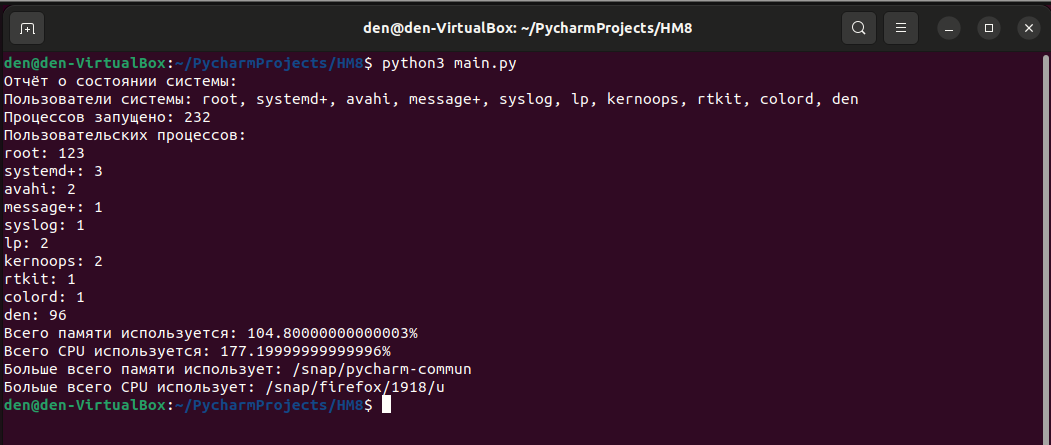
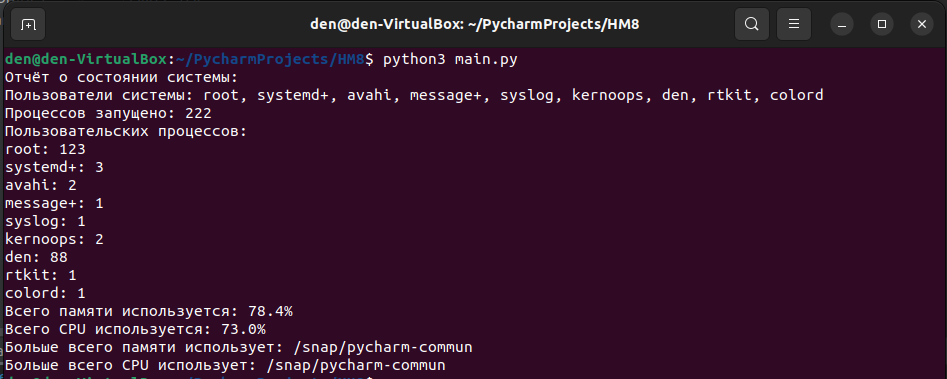
fix hm8

diff --git a/main.py b/main.py
@@ -25,6 +25,8 @@ def process_information():
             max_cpu[0], max_cpu[1] = line[10][:20], float(line[2])
         if float(line[3]) > max_memory[1]:
             max_memory[0], max_memory[1] = line[10][:20], float(line[3])
+    memory = round(memory, 1)
+    cpu = round(cpu, 1)
 
     with open(logs, 'w') as f:
         rec_to_file("Отчёт о состоянии системы:", f)
@@ -46,3 +48,4 @@ def rec_to_file(text, file_name):
 
 if __name__ == '__main__':
     process_information()
+    
